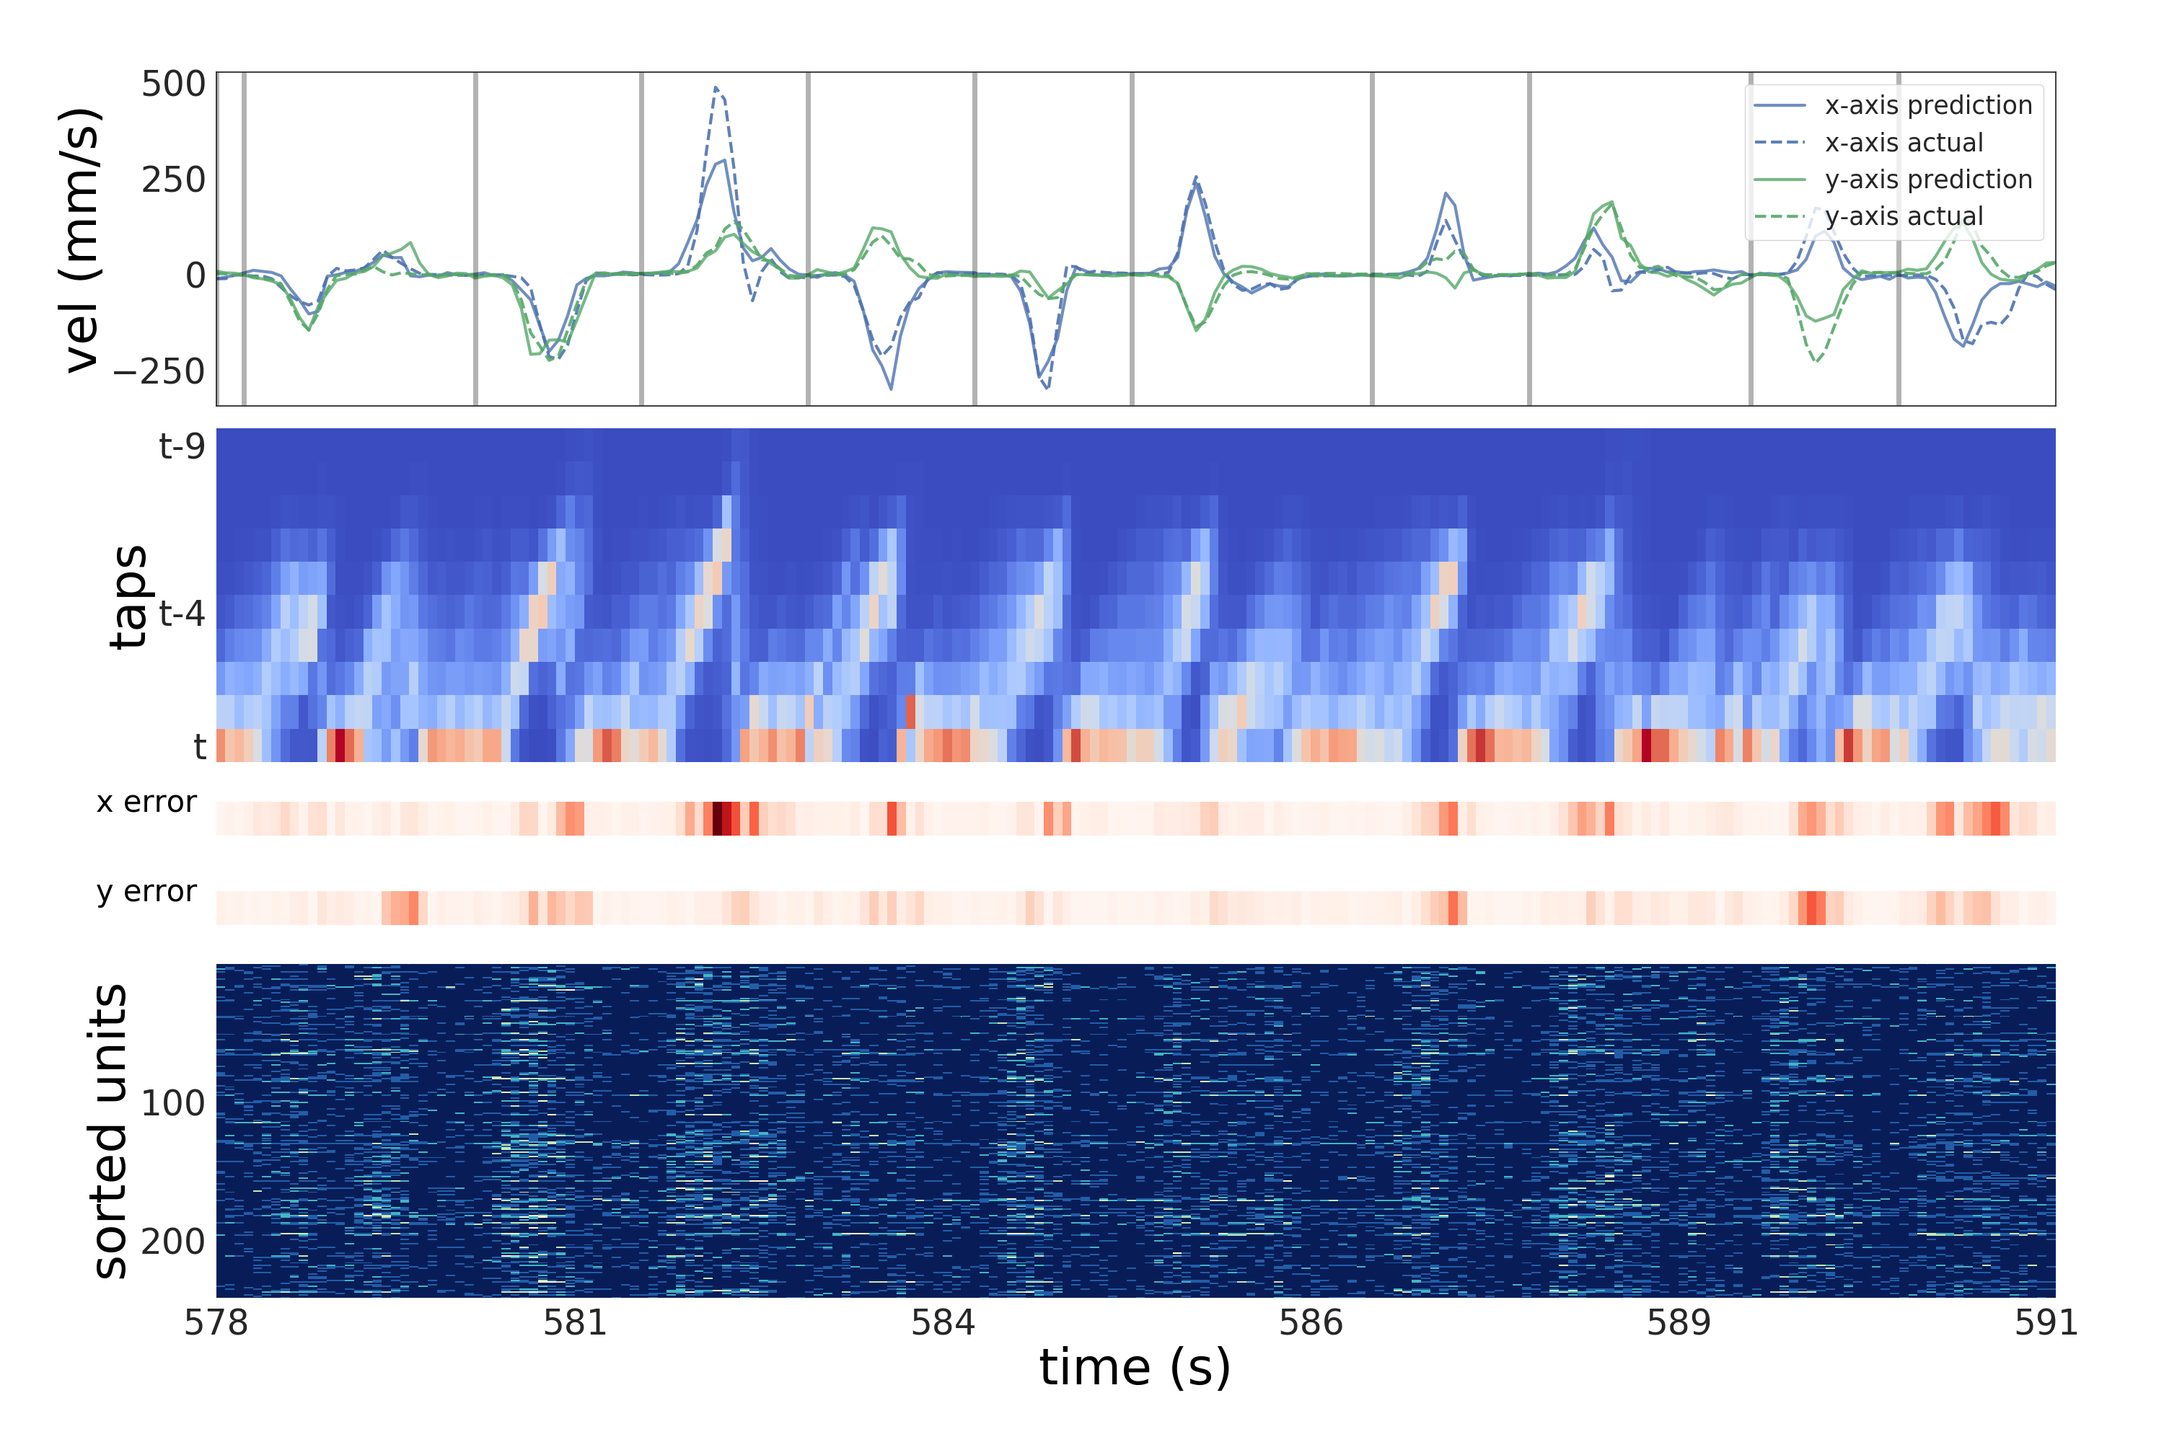
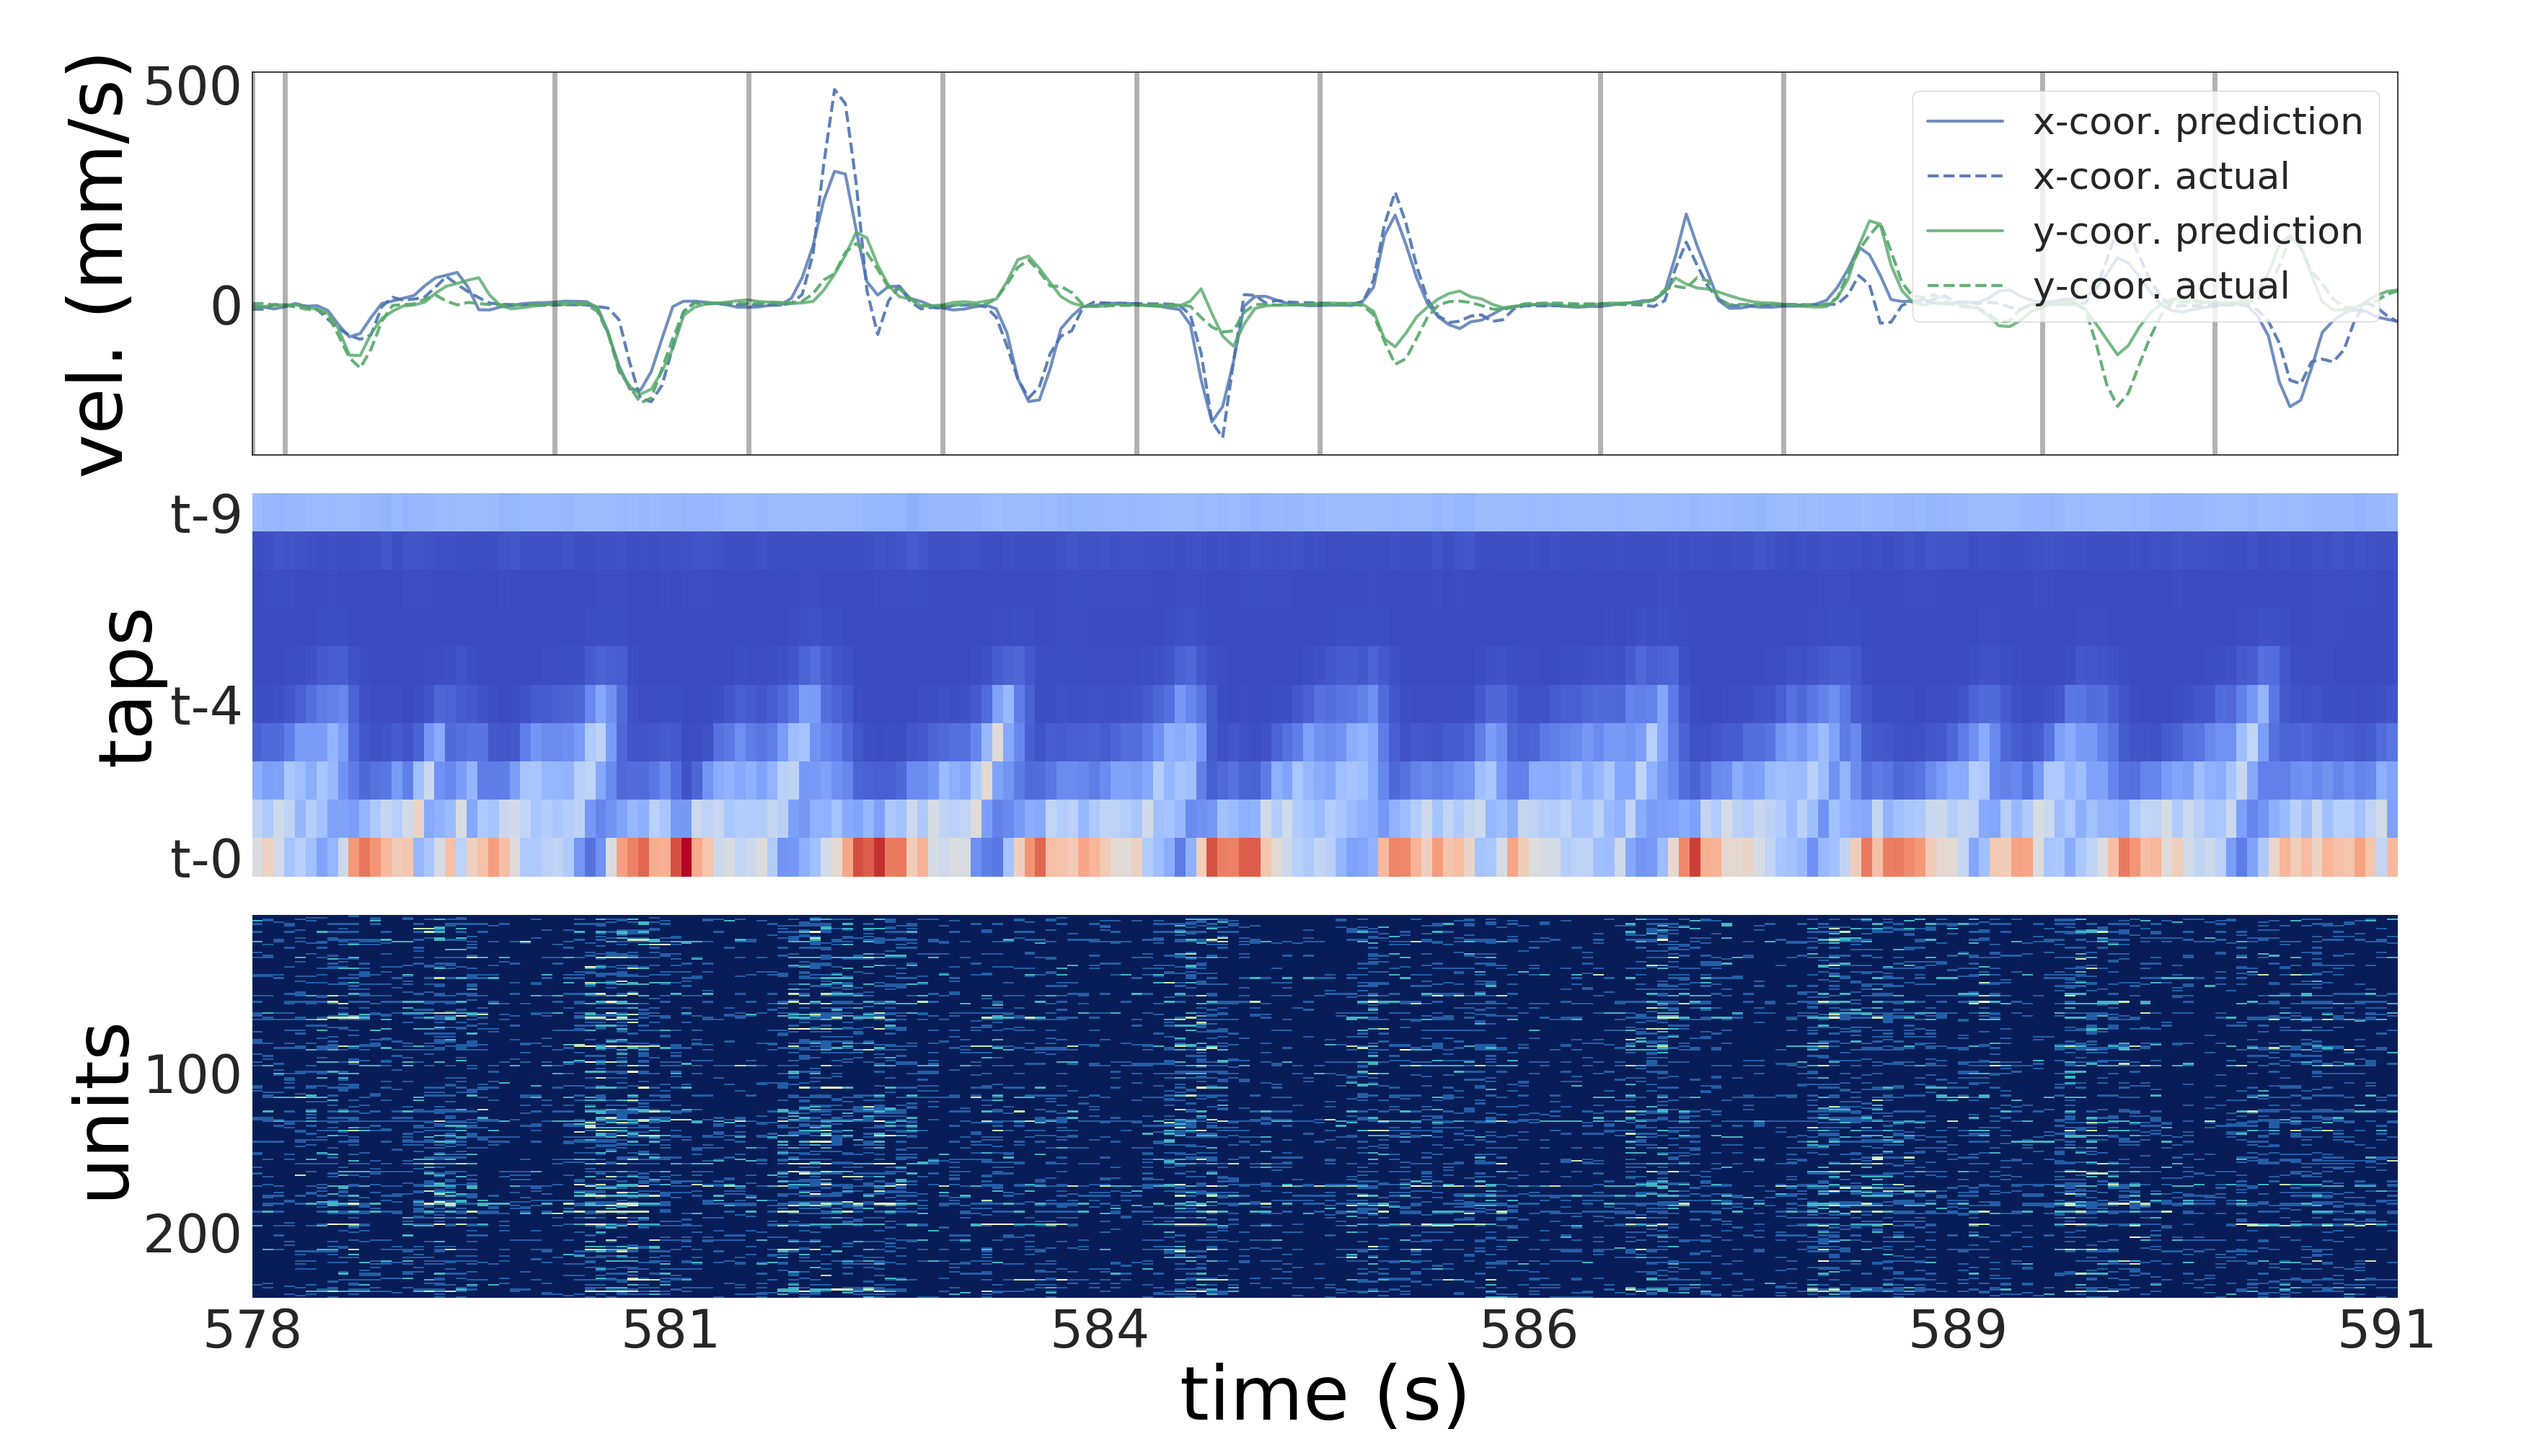
new code

diff --git a/Python_code/Pytorch/Firing_Rate/GRUCell_LN_bidir_self_atten/single_37_sess_spike_GRU_acc_bidir_real_LN_self_attention.py b/Python_code/Pytorch/Firing_Rate/GRUCell_LN_bidir_self_atten/single_37_sess_spike_GRU_acc_bidir_real_LN_self_attention.py
@@ -412,7 +412,7 @@ for session_k in range(len(session_file_list)):
         attn_weight_matrix_forward = attn_weight_matrix_forward.to(device)        
         penality_loss_forward = torch.norm(  input = (torch.bmm(  attn_weight_matrix_forward, torch.transpose(attn_weight_matrix_forward, 1, 2) ) - torch.eye( attn_weight_matrix_forward.size(1) )), p = 'fro')
 
-        l_loss = 0.3*loss_func(o_labels, labels) + penality_loss_forward
+        l_loss = loss_func(o_labels, labels) + penality_loss_forward*100
 
         return o_labels, l_loss
 

diff --git a/Python_code/Pytorch/Firing_Rate/GRUCell_LN_bidir_self_atten_new_fig/single_37_sess_spike_GRU_acc_bidir_real_LN_self_attention_new_fig.py b/Python_code/Pytorch/Firing_Rate/GRUCell_LN_bidir_self_atten_new_fig/single_37_sess_spike_GRU_acc_bidir_real_LN_self_attention_new_fig.py
@@ -412,7 +412,7 @@ for session_k in range(len(session_file_list)):
         attn_weight_matrix_forward = attn_weight_matrix_forward.to(device)        
         penality_loss_forward = torch.norm(  input = (torch.bmm(  attn_weight_matrix_forward, torch.transpose(attn_weight_matrix_forward, 1, 2) ) - torch.eye( attn_weight_matrix_forward.size(1) )), p = 'fro')
 
-        l_loss = 0.3*loss_func(o_labels, labels) + penality_loss_forward
+        l_loss = loss_func(o_labels, labels) + penality_loss_forward*100
 
         return o_labels, l_loss
 

diff --git a/Python_code/Pytorch/Firing_Rate/GRUCell_LN_bidir_self_atten/single_37_sess_spike_GRU_vel_bidir_real_LN_self_attention.py b/Python_code/Pytorch/Firing_Rate/GRUCell_LN_bidir_self_atten/single_37_sess_spike_GRU_vel_bidir_real_LN_self_attention.py
@@ -402,7 +402,7 @@ for session_k in range(len(session_file_list)):
         attn_weight_matrix_forward = attn_weight_matrix_forward.to(device)        
         penality_loss_forward = torch.norm(  input = (torch.bmm(  attn_weight_matrix_forward, torch.transpose(attn_weight_matrix_forward, 1, 2) ) - torch.eye( attn_weight_matrix_forward.size(1) )), p = 'fro')
 
-        l_loss = loss_func(o_labels, labels) + penality_loss_forward
+        l_loss = loss_func(o_labels, labels) + penality_loss_forward*10
 
         return o_labels, l_loss
 

diff --git a/Python_code/Pytorch/Firing_Rate/GRUCell_LN_bidir_self_atten_new_fig/single_37_sess_spike_GRU_vel_bidir_real_LN_self_attention_new_fig.py b/Python_code/Pytorch/Firing_Rate/GRUCell_LN_bidir_self_atten_new_fig/single_37_sess_spike_GRU_vel_bidir_real_LN_self_attention_new_fig.py
@@ -402,7 +402,7 @@ for session_k in range(len(session_file_list)):
         attn_weight_matrix_forward = attn_weight_matrix_forward.to(device)        
         penality_loss_forward = torch.norm(  input = (torch.bmm(  attn_weight_matrix_forward, torch.transpose(attn_weight_matrix_forward, 1, 2) ) - torch.eye( attn_weight_matrix_forward.size(1) )), p = 'fro')
 
-        l_loss = loss_func(o_labels, labels) + penality_loss_forward
+        l_loss = loss_func(o_labels, labels) + penality_loss_forward*10
 
         return o_labels, l_loss
 
